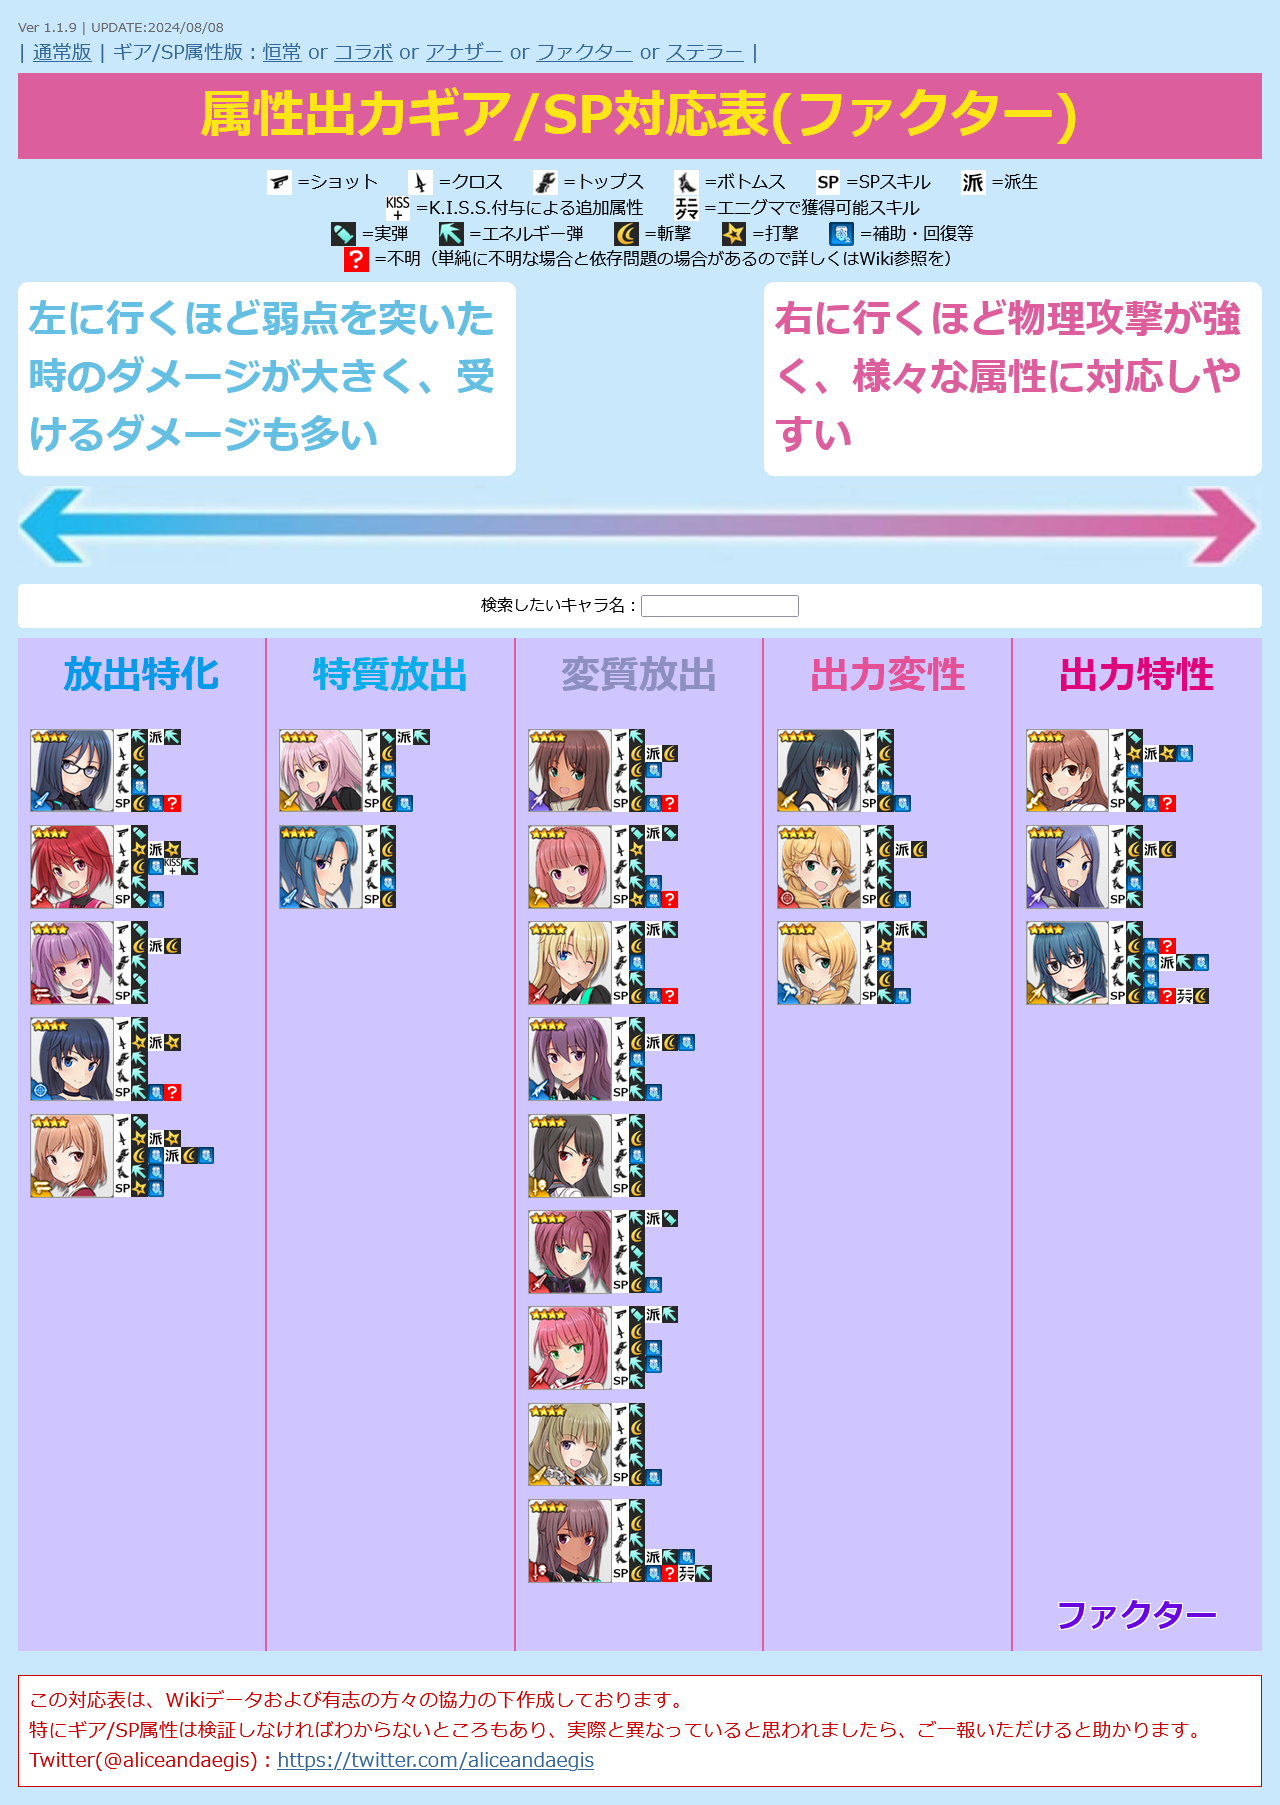
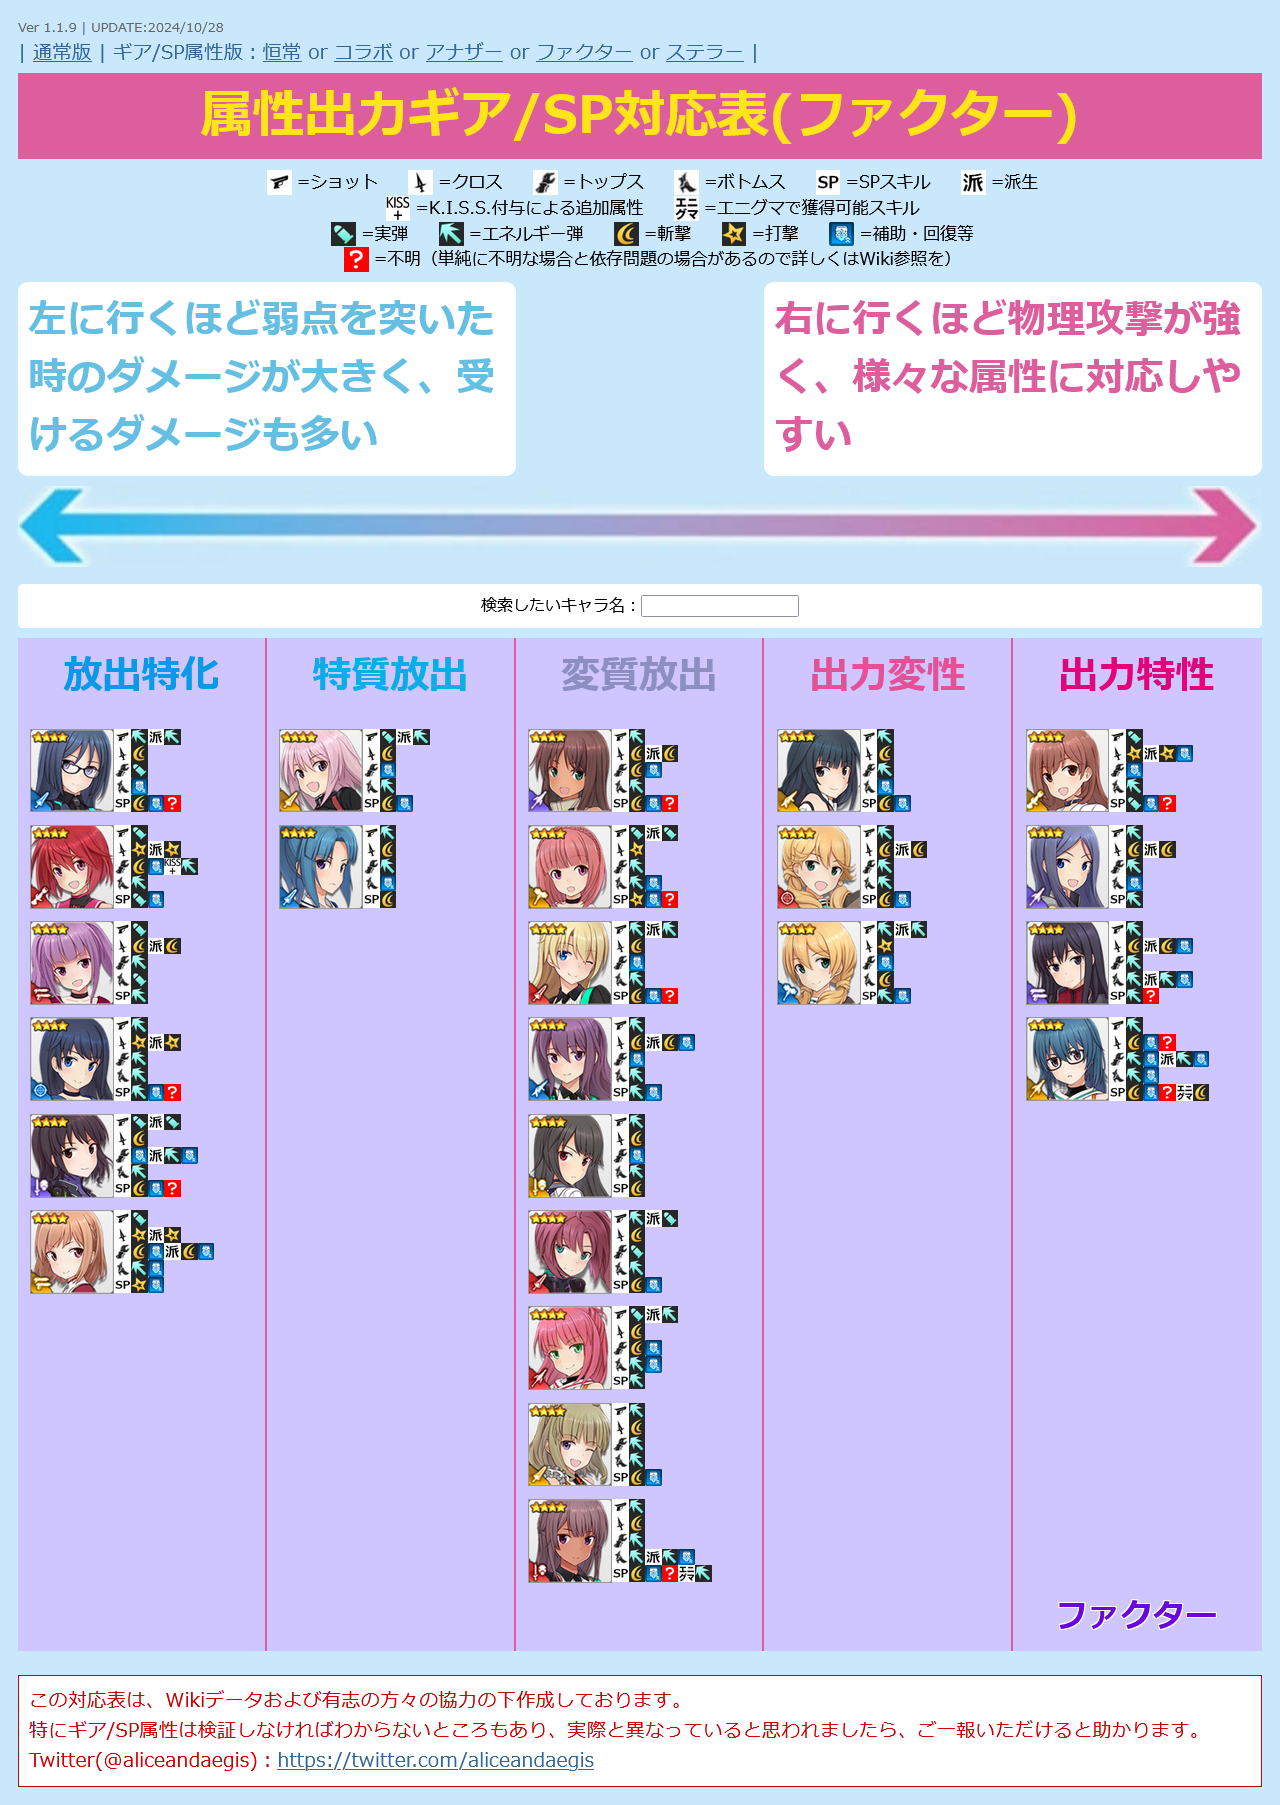
UPDATE charadata
・ファクター 新谷 芹菜 / ネクストを追加
・ファクター 籠目 深沙希 / ネクストを追加

Changed region(s): [[0.7812, 0.4964, 0.9688, 0.6205], [0.0, 0.6205, 0.1875, 0.7446]]

diff --git a/alice.html b/alice.html
@@ -12,7 +12,7 @@
   <script>
 
 /* 更新情報 必要に応じて書き換えてください */
-  var version = "Ver 1.1.9 | UPDATE:2024/10/15";
+  var version = "Ver 1.1.9 | UPDATE:2024/10/28";
 
 
 /*
@@ -686,7 +686,6 @@
       "type": "3",
       "src": "another-serina.png",
       "name": "新谷 芹菜 / 燐光",
-      "name": "新谷 芹菜",
       "equip1": "1/1",
       "equip2": "3",
       "equip3": "5/25",
@@ -695,6 +694,20 @@
       "attr": "2",
       "link": "https://wikiwiki.jp/alicegear/%E6%96%B0%E8%B0%B7%E8%8A%B9%E8%8F%9C%E7%87%90%E5%85%89",
       "category": "10"
+    },
+    {
+      "id": "15",
+      "type": "1",
+      "src": "factor-serina.png",
+      "name": "新谷 芹菜 / ネクスト",
+      "equip1": "1/1",
+      "equip2": "3",
+      "equip3": "5/25",
+      "equip4": "2",
+      "sp": "35?",
+      "attr": "2",
+      "link": "https://wikiwiki.jp/alicegear/%E6%96%B0%E8%B0%B7%E8%8A%B9%E8%8F%9C/%E3%83%8D%E3%82%AF%E3%82%B9%E3%83%88",
+      "category": "11"
     },
     {
       "id": "16",
@@ -1241,6 +1254,20 @@
       "attr": "2",
       "link": "https://wikiwiki.jp/alicegear/%E7%B1%A0%E7%9B%AE%E6%B7%B1%E6%B2%99%E5%B8%8C%E6%B3%A1%E5%BD%B1",
       "category": "10"
+    },
+    {
+      "id": "30",
+      "type": "5",
+      "src": "factor-misaki.png",
+      "name": "籠目 深沙希 / ネクスト",
+      "equip1": "2",
+      "equip2": "3/35",
+      "equip3": "2",
+      "equip4": "2/25",
+      "sp": "2?",
+      "attr": "2",
+      "link": "https://wikiwiki.jp/alicegear/%E7%B1%A0%E7%9B%AE%E6%B7%B1%E6%B2%99%E5%B8%8C/%E3%83%8D%E3%82%AF%E3%82%B9%E3%83%88",
+      "category": "11"
     },
     {
       "id": "31",
